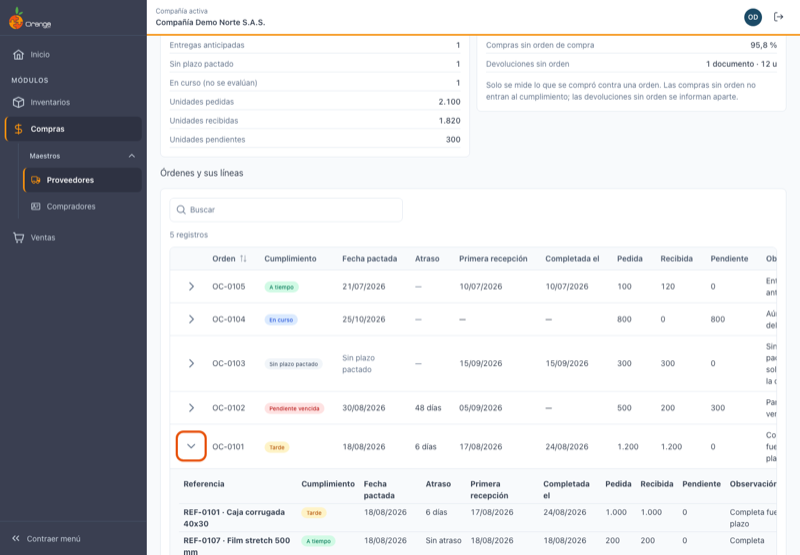
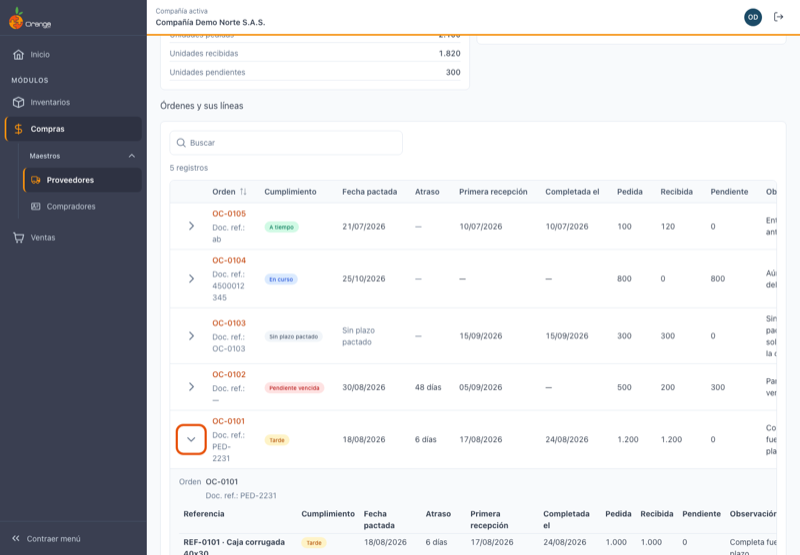
docs(compras-proveedores-evaluacion): manual de Proveedores con identificacion de documentos (CMP-1-1025, Doc. Referencia), I2 con gracia y exporte, y capturas nuevas

diff --git a/v2026/compras/maestros/proveedores.md b/v2026/compras/maestros/proveedores.md
@@ -411,6 +411,31 @@ Si estaba por confirmar la eliminación de un proveedor que otro ya eliminó, el
 
 ---
 
+## 🔖 Identificar los documentos
+
+Las pantallas de Proveedores muestran cada documento con su **identificador**, y debajo, en letra pequeña, su **Doc. Referencia**.
+
+![Documento con su Doc. Referencia](../recursos/img/proveedor-documento-referenciado/01-con-doc-referencia.png)
+
+**Cómo leer el identificador.** Tiene tres partes: el **código del tipo**, el **prefijo** y el **consecutivo**. Por ejemplo, **CMP-1-1025** es un documento del tipo CMP, con prefijo 1 y consecutivo 1025. Si el tipo no usa prefijo, el identificador es solo código y consecutivo, como **OC-0101**.
+
+**Pase el mouse sobre el identificador** para ver el **nombre del tipo de documento** (por ejemplo, *Compra*). En las compras y en las órdenes, el identificador es un enlace: haga clic para abrir el documento.
+
+**Qué es el Doc. Referencia.** Es un texto libre que se escribe al capturar el documento, con **hasta 20 caracteres**. Por ejemplo, el número de la factura o del pedido del proveedor. Puede repetir el consecutivo o ser muy corto; la pantalla lo muestra **tal cual**, sin cambiarlo. **No es un enlace.** Si el documento no tiene Doc. Referencia, verá **—**.
+
+**Dónde aparece:**
+
+| Pantalla | Qué muestra |
+|----------|-------------|
+| **Órdenes y compras** | Cada orden de compra con su Doc. Referencia debajo del número. En **Compras y devoluciones**, la columna **Órdenes ligadas** muestra las órdenes a las que está ligada cada compra. |
+| **Cumplimiento de OC** | Cada recepción de una línea, con su documento (identificador y Doc. Referencia). |
+| **Indicadores › Evaluación, I1** | Las líneas de *Líneas que explican el I1*, con el documento de cada recepción. |
+| **Indicadores › Evaluación, I2** | Los documentos de *Documentos que explican el I2*, con su identificador y su Doc. Referencia. |
+
+![Órdenes con su Doc. Referencia](../recursos/img/proveedor-ordenes-compras/01-ordenes-y-compras.png)
+
+---
+
 ## 🧾 Órdenes y compras del proveedor
 
 En la ficha de un proveedor guardado, la pestaña **Órdenes y compras** muestra, sin salir de la ficha, las órdenes de compra del proveedor y sus compras y devoluciones. Son los mismos listados de **Órdenes de compra** y de **Compras y devoluciones**, filtrados por este proveedor. Es de solo consulta.
@@ -557,6 +582,7 @@ El color nunca va solo: siempre aparece el texto. El semáforo compara el valor 
 
 **Qué tener en cuenta:**
 
+- En *Líneas que explican el I1* cada recepción muestra su documento (identificador y Doc. Referencia).
 - **Solo cuentan las compras ligadas a una orden de compra.** Una compra sin orden no tiene compromiso con el cual medirla, por eso no entra en I1.
 - Las compras se cuentan por su fecha y las órdenes por su fecha pactada. Por eso, en un mismo periodo, la cobertura y el cumplimiento pueden no cuadrar exactamente.
 - Si **más de la mitad** de las líneas no tiene plazo pactado, el cumplimiento de fecha sale como *Sin dato* y I1 se calcula solo con cantidades y referencias. El aviso lo dice así. Para medir fechas, revise los días de plazo de orden de compra en la pestaña **Proveedor** de la ficha.
@@ -602,6 +628,8 @@ El color nunca va solo: siempre aparece el texto. El semáforo compara el valor 
 ### Exportar a Excel
 
 **I2** tiene **Exportar a Excel**. El archivo incluye el proveedor, la fecha de corte, el periodo, los parámetros usados y los documentos que explican el resultado. No pide el permiso **Exportar** de la opción.
+
+El archivo de I2 tiene **16 columnas**. Las tres nuevas son **Tipo de movimiento**, **Consecutivo** y **Doc. Referencia**, para identificar cada documento sin abrirlo.
 
 Las órdenes de compra y las compras del proveedor no se exportan desde la ficha.
 
@@ -649,6 +677,9 @@ La orden tiene 0 días de plazo, así que no hay fecha pactada con la cual compa
 
 **¿Por qué el semáforo de I2 dice *Provisional*?**
 Los umbrales (95 % y 85 %) y los días de gracia del contado los está confirmando negocio. Mientras tanto, el color orienta, pero la cifra no es final.
+
+**¿Qué es el Doc. Referencia y por qué dice —?**
+Es el texto que se escribió al capturar el documento (hasta 20 caracteres), por ejemplo, el número de la factura del proveedor. Si el documento no lo tiene, se muestra **—**. La pantalla lo muestra tal cual y no es un enlace.
 
 **¿Por qué dice *Datos insuficientes*?**
 Hay pocas líneas (I1, menos de 5) o pocos documentos vencidos (I2, menos de 3) para sacar conclusiones. La cifra se muestra, pero sin color.
